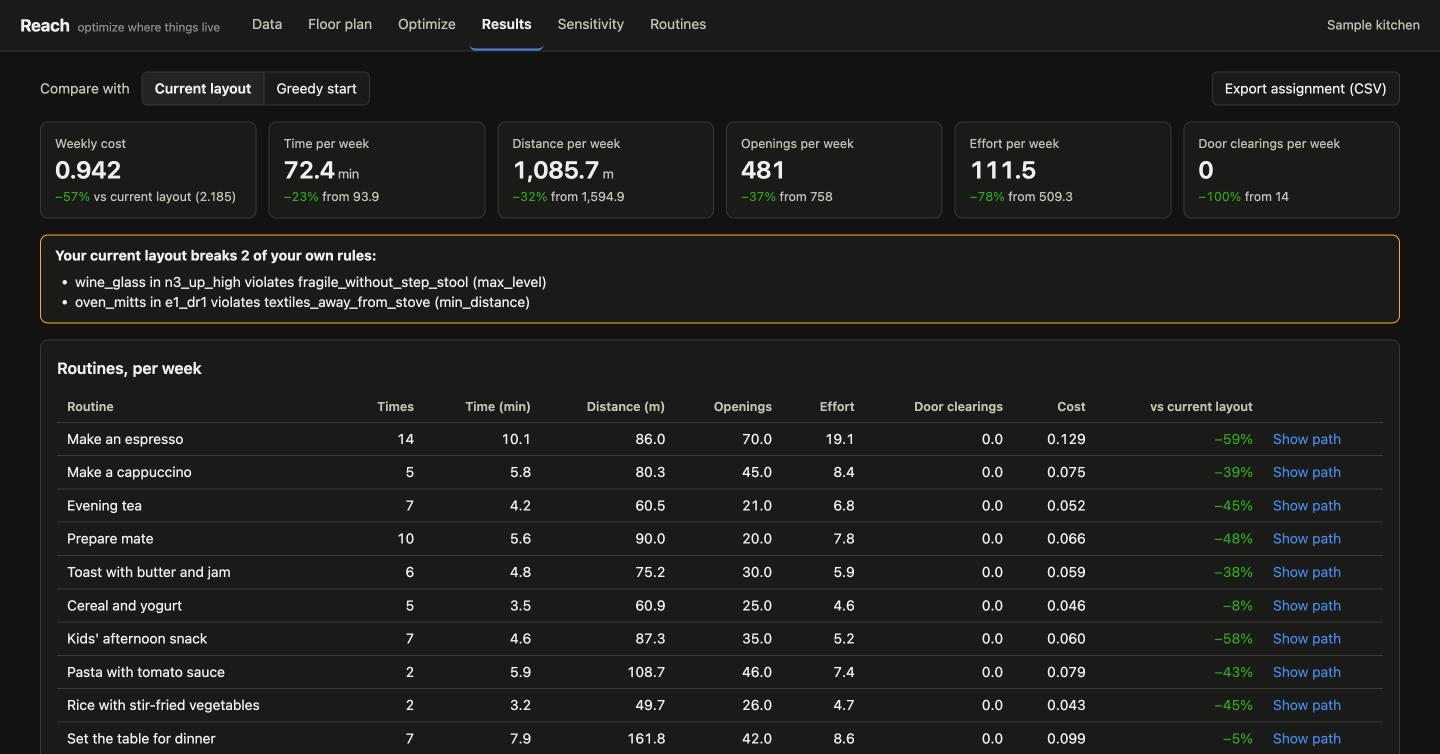
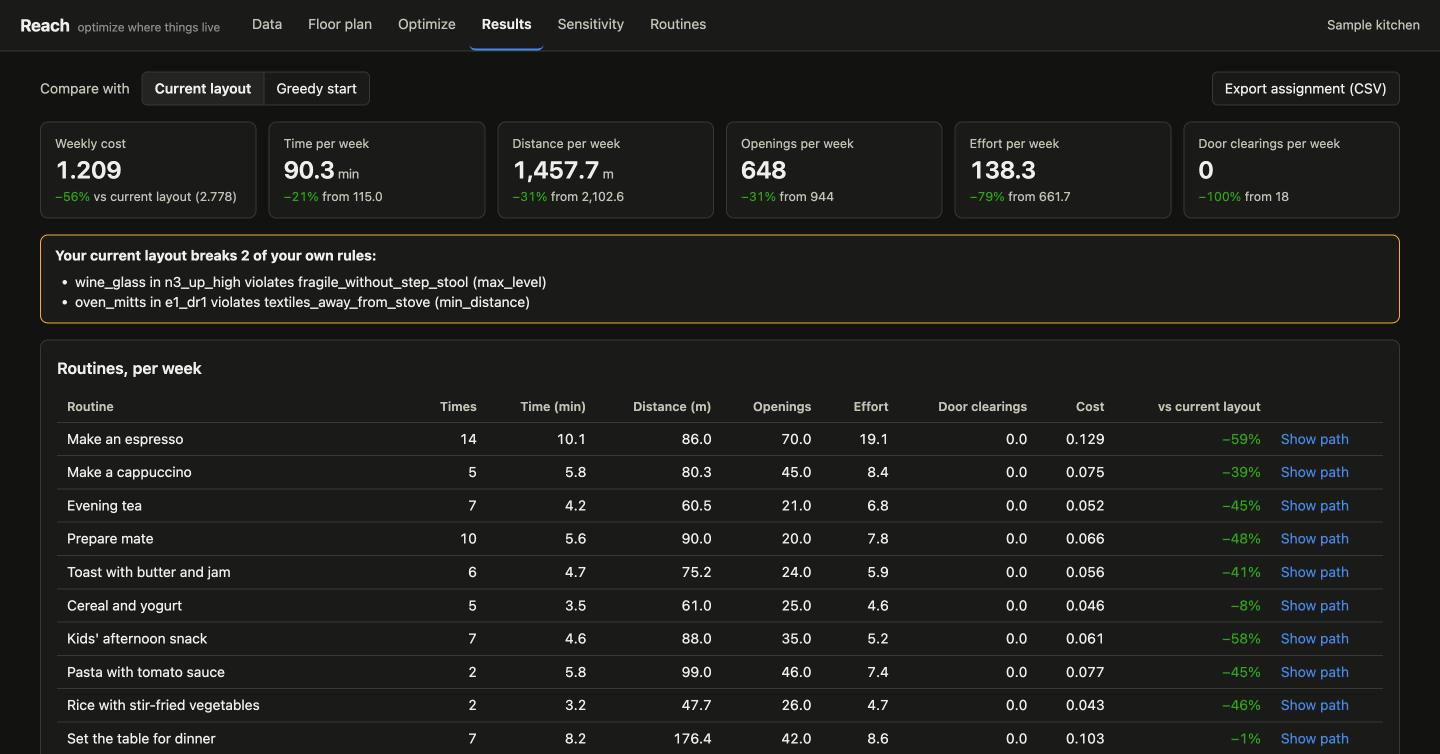
docs: document occasional items and the noise measurements

diff --git a/docs/DECISIONS.md b/docs/DECISIONS.md
@@ -69,9 +69,7 @@ Each entry says what was decided and why.
 23. **Hard constraints are never relaxed inside the search.** Moves are drawn from precomputed
     domains and rejected if capacity or separation would break, so every intermediate state is
     feasible and stopping early always yields a usable result.
-24. **Sensitivity runs include optimizer noise.** Each run uses a different seed as well as
-    different frequencies, so "stability" measures what a user would experience when re-running
-    with slightly different estimates. Items used by no routine are labelled `unused`.
+24. **Sensitivity is measured against optimizer noise.** See the Sensitivity section below.
 
 25. **Two extra moves: routine cluster and location exchange.** The spec lists move, swap and
     nest-group move. On the sample kitchen those alone left the search about 4% short and
@@ -81,18 +79,75 @@ Each entry says what was decided and why.
 27. **Greedy falls back to a packing order** (most constrained, largest first) when the
     frequency order cannot place everything. Usage order gives the best start; packing order
     gives the best chance of a feasible one.
-28. **Default budget of 200,000 iterations.** That is a few seconds on the sample (about 200
-    items, 44 compartments, 18 routines) and the cost has stopped improving by then. The spec
-    allowed 15 to 20 minutes; `--iterations` or `--time-limit` raise the budget for bigger
-    problems.
+28. **Library default of 200,000 iterations.** That is a few seconds on the sample (about 200
+    items, 44 compartments, 18 routines). The CLI and the app use a larger default; see 38.
+
+## Occasional items
+
+29. **Items that no routine mentions get a generic access cost.** Without it their location is
+    free, so the optimizer scatters them arbitrarily and they compete for nothing. Each one is
+    charged a round trip from a central point to its compartment (walk, opening, effort, any
+    door that is normally in the way), times its `estimated_frequency_per_week`. This is the
+    one place where the catalog estimate enters the cost; for items that do appear in routines
+    the routines still decide.
+30. **One access is one take.** Walk there, open, take, walk back. Putting the item away again
+    would be a second access and is assumed to be part of the estimate.
+31. **The origin defaults to the centroid of all locations** and is configurable as a point or a
+    POI/zone id (`cost.occasional_items.origin`). It stands for "wherever I happen to be".
+32. **It is reported as its own line and kept out of the normalizers.** The normalizers stay
+    defined by the routines, so "1.0" still means "the routines under the greedy layout", and
+    the occasional share of the total is visible (about 22% on the sample).
+    `cost.occasional_items.enabled: false` removes the term.
+
+## Sensitivity
+
+33. **Noise runs and perturbed runs.** The first version only perturbed frequencies, and most
+    items looked unstable. Re-optimizing with the *same* frequencies and a new seed shows how
+    much of that is the optimizer. Measured on the sample kitchen (20 runs of each kind,
+    ±30%, items that affect the cost; "wall+level" counts a move to another shelf on the same
+    wall and level as staying):
+
+    | Iterations × restarts | Noise: exact | Noise: wall+level | Perturbed: exact | Perturbed: wall+level | Noise cost min / median / max |
+    | --- | --- | --- | --- | --- | --- |
+    | 50,000 × 1 | 23% | 63% | 24% | 64% | 1.2218 / 1.2386 / 1.2618 |
+    | 200,000 × 1 | 38% | 69% | 36% | 69% | 1.2112 / 1.2226 / 1.2351 |
+    | 1,000,000 × 1 | 42% | 74% | 43% | 75% | 1.2060 / 1.2148 / 1.2229 |
+    | 200,000 × 5 | 48% | 71% | 46% | 72% | 1.2112 / 1.2141 / 1.2201 |
+    | 200,000 × 10 | 50% | 72% | 46% | 74% | 1.2072 / 1.2130 / 1.2185 |
+    | 1,000,000 × 5 | 57% | 77% | 54% | 76% | 1.2060 / 1.2099 / 1.2132 |
+
+    At every budget the perturbed runs are no less stable than the noise runs. On this sample,
+    essentially all of the instability is optimizer noise, and a ±30% error in the frequencies
+    adds nothing that can be measured on top of it.
+34. **More budget helps, and does not finish the job.** Going from 50,000 × 1 to 1,000,000 × 5
+    raises exact stability from 23% to 57%, narrows the cost spread from 0.040 to 0.007, and
+    lowers the median cost by 2.3%. But at the top budget the runs differ in cost by 0.6% while
+    43% of the items still change compartment: the problem has many layouts that are equally
+    good. That residue is a property of the kitchen (plenty of comfortable space close to
+    everything), not something more search removes.
+35. **Stability by area and level.** Locations carry a generic `area` (the wall, for a kitchen).
+    Labels use "same area and level", because the exact shelf among interchangeable neighbours
+    is not a meaningful difference. The exact-location share is still reported.
+36. **Labels: robust, noisy, sensitive.** `noisy` items move with unchanged frequencies;
+    `sensitive` ones are stable under noise and move only under perturbation. Only the second
+    group says something about the estimates.
+37. **Restarts instead of one long run.** `restarts = k` keeps the best of `k` independent
+    searches. For the same total work, 200,000 × 5 and 1,000,000 × 1 are about equal in median
+    cost; restarts give the narrower spread, a single long run the better best case. They are
+    combined.
+38. **Defaults of the CLI and the app: 1,000,000 iterations × 5 restarts**, about a minute for
+    one optimization of the sample and about ten for a 20 + 20 run sensitivity analysis on an
+    8-core laptop. That is the budget the spec allowed for (15 to 20 minutes), spent where it
+    buys stability. The library defaults stay at 200,000 × 1 so tests and scripts are fast. A
+    `--time-limit` is shared between the restarts.
 
 ## Application
 
-29. **One in-memory project per server process.** Reach is a local single-user tool. There is no
+39. **One in-memory project per server process.** Reach is a local single-user tool. There is no
     database and no authentication.
-30. **Jobs run in a child process.** Simulated annealing is CPU-bound Python; a separate process
+40. **Jobs run in a child process.** Simulated annealing is CPU-bound Python; a separate process
     keeps the API responsive and makes stopping reliable.
-31. **Uploaded and edited files are never written back to disk by the server.** The UI offers
+41. **Uploaded and edited files are never written back to disk by the server.** The UI offers
     downloads instead, so the bundled sample and your own files cannot be overwritten by mistake.
-32. **LLM output is validated with the same schemas as hand-written files** and is only ever a
+42. **LLM output is validated with the same schemas as hand-written files** and is only ever a
     proposal. The default model is set with `REACH_LLM_MODEL`.

diff --git a/README.md b/README.md
@@ -68,7 +68,10 @@ affects the optimization. Reach works fully without an API key.
 ### Trusting the result
 
 Usage frequencies are estimates. Reach's sensitivity analysis re-optimizes under perturbed
-frequencies and shows which item locations are robust and which depend on your guesses.
+frequencies and shows which item locations are robust and which depend on your guesses. It also
+re-optimizes with the *same* frequencies and a different random seed, to show how much of the
+movement is just the optimizer choosing between equally good layouts. On the sample kitchen that
+is nearly all of it: see decision 33 in [`docs/DECISIONS.md`](docs/DECISIONS.md).
 
 ## Beyond the kitchen
 
@@ -110,17 +113,19 @@ docker run --rm -p 8000:8000 reach        # http://localhost:8000
 | --- | --- |
 | **Data** | Upload your files or load the sample. Every validation problem is listed with its file, line and field. |
 | **Floor plan** | Top view with POIs, zones, walls and obstructions. Pick a routine to draw and animate its path. Click a wall to open its **elevation**: compartments at their real size and height, coloured by level, with their contents and how full they are. Pin or unpin items there. |
-| **Optimize** | Choose a seed and a budget, watch the best cost improve, stop early and keep the best solution so far. |
+| **Optimize** | Choose a seed, a budget and a number of restarts, watch the best cost improve, stop early and keep the best solution so far. |
 | **Results** | What goes in each compartment with the capacity used, every metric per routine and per week, and the comparison with your current layout. Export the assignment as CSV. |
-| **Sensitivity** | Re-optimizes under perturbed frequencies and shows which item locations are robust. |
+| **Sensitivity** | Re-optimizes with new seeds and with perturbed frequencies, so you can tell optimizer noise from real dependence on your estimates. Stability is shown by exact compartment and by wall and level. |
 | **Routines** | Edit routines, draft them from a description, a recipe or a usage diary, and check coverage. |
 
 ![Elevation of a wall](docs/screenshots/elevation.jpg)
 
 ![Results compared with the current layout](docs/screenshots/results.jpg)
 
-On the sample kitchen the optimized layout cuts the weekly cost by 57% against the hand-made
-"current" layout: 32% less walking, 37% fewer openings, 23% less time, and no more closing the
+![Sensitivity: optimizer noise against perturbed frequencies](docs/screenshots/sensitivity.jpg)
+
+On the sample kitchen the optimized layout cuts the weekly cost by 56% against the hand-made
+"current" layout: 31% less walking, 31% fewer openings, 21% less time, and no more closing the
 entrance door to reach a cabinet.
 
 ### Command line
@@ -133,12 +138,16 @@ reach validate my-kitchen/                       # check the files
 reach simulate my-kitchen/ --current             # metrics of current_assignment.csv
 reach optimize my-kitchen/ --seed 1 --out best.csv
 reach optimize my-kitchen/ --time-limit 600      # wall-clock budget; Ctrl-C keeps the best so far
-reach sensitivity my-kitchen/ --runs 30 --perturbation 0.3
+reach optimize my-kitchen/ --iterations 200000 --restarts 1   # a quick run, a few seconds
+reach sensitivity my-kitchen/ --runs 20 --perturbation 0.3
+reach sensitivity my-kitchen/ --mode baseline    # optimizer noise only: same frequencies, new seeds
 reach coverage my-kitchen/
 reach serve                                      # the web app, if the frontend is built
 ```
 
-With an iteration budget (the default), the same seed always gives the same result.
+With an iteration budget (the default), the same seed always gives the same result. The default
+is 1,000,000 iterations × 5 restarts: under a minute for the sample, about ten minutes for a
+full sensitivity analysis.
 
 ### LLM helpers (optional)
 
@@ -218,7 +227,9 @@ routines:
 Reach simulates each routine step by step under a candidate layout and measures distance,
 openings, time, ergonomic effort and obstruction clearings. The cost is the weighted sum of
 those metrics, normalized and multiplied by each routine's weekly frequency, plus penalties for
-soft constraints. A greedy pass builds a feasible layout and simulated annealing improves it;
+soft constraints. Items that no routine mentions are charged a generic round trip from the
+middle of the room, weighted by how often you estimate you use them, and reported as their own
+"occasional items" line. A greedy pass builds a feasible layout and simulated annealing improves it;
 every layout the search visits respects capacity and the hard constraints, so stopping early
 always leaves a usable result.
 

diff --git a/docs/ARCHITECTURE.md b/docs/ARCHITECTURE.md
@@ -193,10 +193,30 @@ Let `M_m(r, a)` be metric `m` of routine `r` under assignment `a`, `f_r` the wee
 the routine, `w_m` the metric weights and `N_m` the normalizers.
 
 ```
-cost(a) = Σ_r f_r · Σ_m  w_m · M_m(r, a) / N_m   +   Σ_s penalty_s(a)
+cost(a) = Σ_r f_r · Σ_m  w_m · M_m(r, a) / N_m
+        + Σ_i e_i · Σ_m  w_m · A_m(i, a) / N_m        (occasional items)
+        + Σ_s penalty_s(a)
 
 m ∈ {distance, openings, time, effort, extra_trips, clearings}
 ```
+
+**Occasional items.** An item that no routine mentions would otherwise cost nothing wherever it
+is, and its location would be arbitrary. Each such item `i` with an estimated frequency
+`e_i > 0` is charged one generic access `A(i, a)` per estimated use: a round trip between a
+central point (the *origin*) and its location.
+
+```
+distance  = 2 · ‖origin − a(i)‖
+openings  = open_cost(a(i))           + clear and restore openings of obstructions that block by default
+time      = distance / speed + open_time(a(i)) + handling_time + their clear and restore times
+effort    = level_penalty[level] × (1 + weight_factor × weight_kg(i))
+clearings = number of obstructions that block a(i) by default
+```
+
+The origin is `cost.occasional_items.origin` (a point or a POI/zone id) and defaults to the
+centroid of all locations. `cost.occasional_items.enabled: false` turns the term off. The
+evaluation reports it as its own line, with its share of the total; the weekly totals include
+it. It is not part of the normalizers, which stay defined by the routines.
 
 **Normalizers.** `N_m = Σ_r f_r · M_m(r, a₀)` is the weekly total of metric `m` under the greedy
 initial solution `a₀` (1 if that total is 0). They are computed once, frozen, and stored with the
@@ -313,16 +333,38 @@ When no feasible start exists, `reach.core.optim.feasibility` explains why:
 
 ## 5. Sensitivity analysis
 
-`reach.core.sensitivity` runs the optimizer `N` times. Run `k` scales every routine frequency by
-an independent factor drawn from `U(1 − x, 1 + x)` and uses seed `seed + k`; normalizers are the
-baseline ones. Runs execute in a process pool. The report contains:
+Simulated annealing is stochastic, and a layout problem has many near-equivalent solutions. A
+naive "perturb and re-optimize" analysis therefore mixes two things: movement caused by the
+optimizer, and movement caused by the frequencies. `reach.core.sensitivity` separates them by
+comparing two sets of runs with one baseline layout:
 
-- per item: the share of runs in which it landed in its most common location, the share in which
-  it matched the unperturbed baseline, and a `robust` / `sensitive` / `unused` label;
-- the cost distribution (min, quartiles, max, mean, standard deviation).
+- **Noise runs** keep the frequencies and change only the seed.
+- **Perturbed runs** also scale every routine frequency by an independent factor drawn from
+  `U(1 − x, 1 + x)`.
 
-Items that no routine uses are labelled `unused`: their location does not affect the cost, so
-their instability says nothing.
+All runs use the same iterations, restarts and normalizers, and their seeds derive from the base
+seed. They execute in a process pool. `runs = 0` is the baseline mode (noise only).
+
+For every item and each set, the report gives the share of runs in which the item stays
+
+- in the **exact location** of the baseline, and
+- in the same **area and level** (for the kitchen: the same wall and level), so that swapping
+  between interchangeable neighbouring shelves does not count as instability.
+
+Each set also reports the mean of those shares over the items that affect the cost, and its cost
+spread. Items are labelled from the area-and-level shares with a threshold (0.8):
+
+| Label | Meaning |
+| --- | --- |
+| `robust` | stays in both sets |
+| `noisy` | moves even with unchanged frequencies: the optimizer sees the alternatives as equal |
+| `sensitive` | stable under noise, moves when the frequencies change: depends on the estimates |
+| `unused` | no routine and no estimated use; its location does not affect the cost |
+| `pinned` | fixed by the user |
+
+**Restarts.** `SimulatedAnnealing(restarts=k)` runs `k` independent searches from the same start
+with derived seeds and keeps the best. It is the direct way to spend a larger budget on lower
+variance, and it stays reproducible for a seed.
 
 ## 6. Coverage analysis
 

diff --git a/docs/DATA_COLLECTION.md b/docs/DATA_COLLECTION.md
@@ -116,8 +116,9 @@ calibrate the fraction for a group, measure one stack: for 8 plates, 2.5 cm for 
 **Weight.** `weight_kg` of one unit. A kitchen scale handles most things; it only needs to be
 right for heavy items.
 
-**Frequency.** `estimated_frequency_per_week` is a guess, and it is only used as a cross-check
-against your routines. Useful anchors: daily = 7, twice a day = 14, weekdays = 5, monthly = 0.25,
+**Frequency.** `estimated_frequency_per_week` is a guess. For items that appear in routines it
+is only a cross-check. For items that no routine mentions it decides how much their location
+matters: each is charged a round trip from the middle of the room that many times a week. Useful anchors: daily = 7, twice a day = 14, weekdays = 5, monthly = 0.25,
 twice a year = 0.04. People overestimate rare items, so when in doubt go lower.
 
 **Fixed things.** Put the location id in `fixed_location` for anything that will not move:
